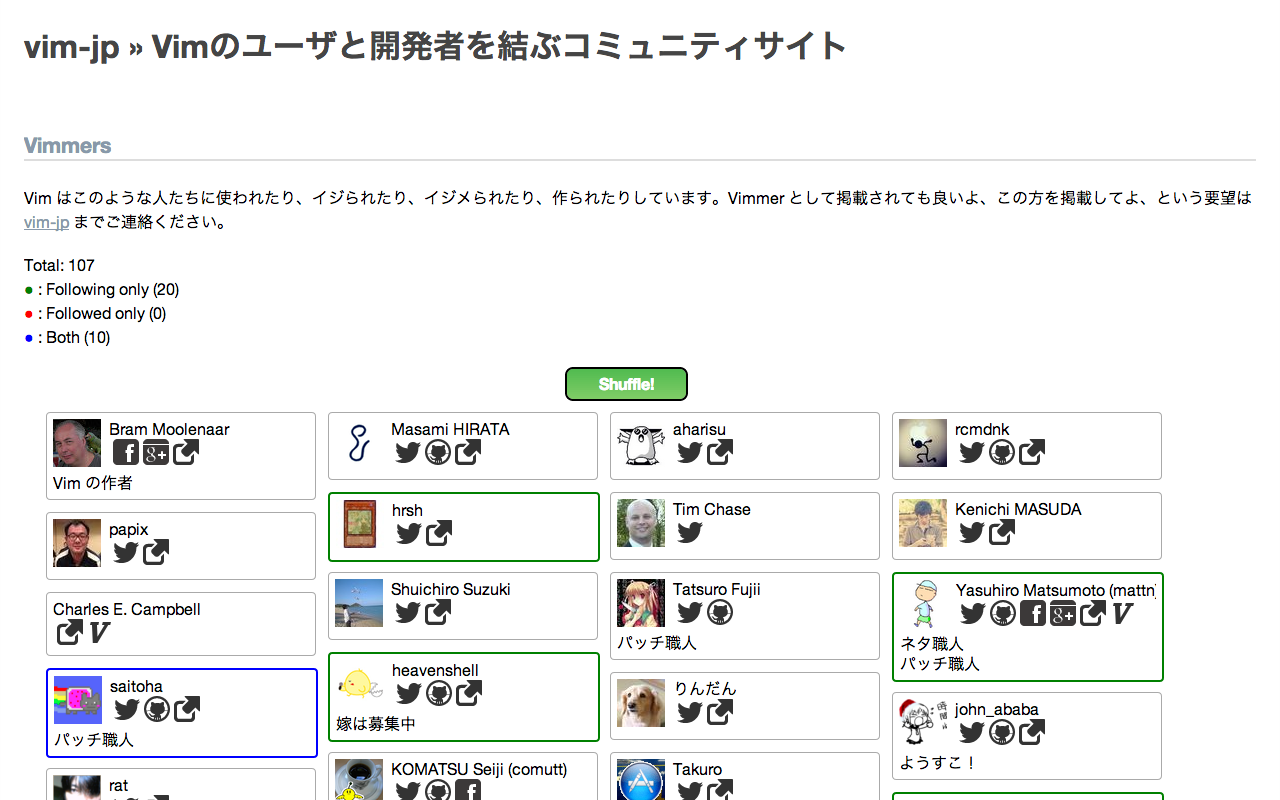
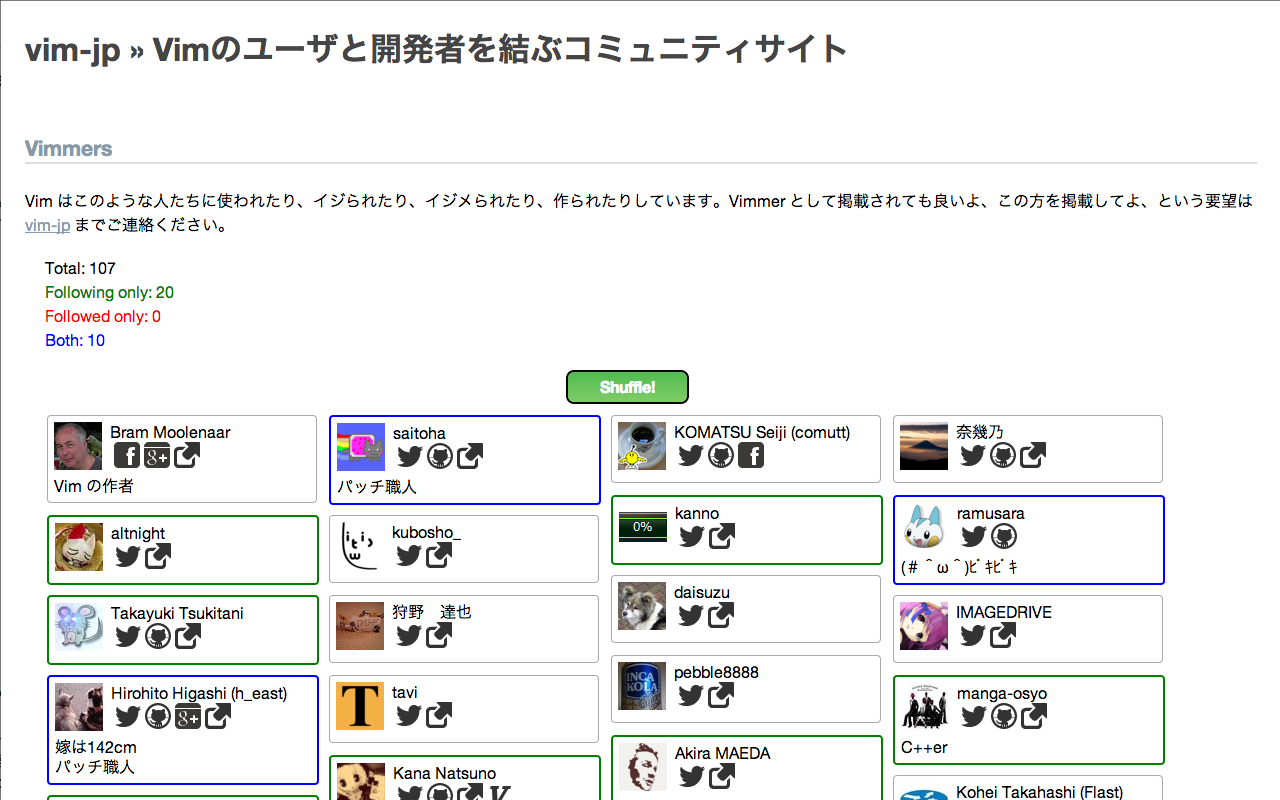
フォロー数などのカウント表示のスタイルを変更

diff --git a/contents/js/vimmers.js b/contents/js/vimmers.js
@@ -8,8 +8,6 @@
 
     Vimmers.MAX_NAME_COUNT_PER_REQUEST = 100;
 
-    Vimmers.EXPLANATION_MARK = '●';
-
     Vimmers.prototype.status = {
       both: {
         className: 'status-both',
@@ -177,9 +175,9 @@
       var bothExp, div, followedExp, followingExp, parent, pos, total;
 
       total = "<p>Total: " + this.persons.length + "</p>";
-      followingExp = ("<p><span>" + Vimmers.EXPLANATION_MARK + "</span>") + (" : Following only (" + this.status.following.count + ")</p>");
-      followedExp = ("<p><span>" + Vimmers.EXPLANATION_MARK + "</span>") + (" : Followed only (" + this.status.followed.count + ")</p>");
-      bothExp = ("<p><span>" + Vimmers.EXPLANATION_MARK + "</span>") + (" : Both (" + this.status.both.count + ")</p>");
+      followingExp = "<p>Following only: " + this.status.following.count + "</p>";
+      followedExp = "<p>Followed only: " + this.status.followed.count + "</p>";
+      bothExp = "<p>Both: " + this.status.both.count + "</p>";
       div = document.getElementById('status-explanation');
       if (!div) {
         div = document.createElement('div');

diff --git a/contents/css/vimmers.css b/contents/css/vimmers.css
@@ -4,13 +4,13 @@
 #status-explanation p {
   margin: 0px;
 }
-#status-explanation > p:nth-of-type(2) > span {
+#status-explanation > p:nth-of-type(2) {
   color: #008000;
 }
-#status-explanation > p:nth-of-type(3) > span {
+#status-explanation > p:nth-of-type(3) {
   color: #ff0000;
 }
-#status-explanation > p:nth-of-type(4) > span {
+#status-explanation > p:nth-of-type(4) {
   color: #0000ff;
 }
 .persons .person.status-following {

diff --git a/src/less/vimmers.less b/src/less/vimmers.less
@@ -7,13 +7,13 @@
   p {
     margin: 0px;
   }
-  & > p:nth-of-type(2) > span {
+  & > p:nth-of-type(2) {
     color: @following-color;
   }
-  & > p:nth-of-type(3) > span {
+  & > p:nth-of-type(3) {
     color: @followed-color;
   }
-  & > p:nth-of-type(4) > span {
+  & > p:nth-of-type(4) {
     color: @both-color;
   }
 }
